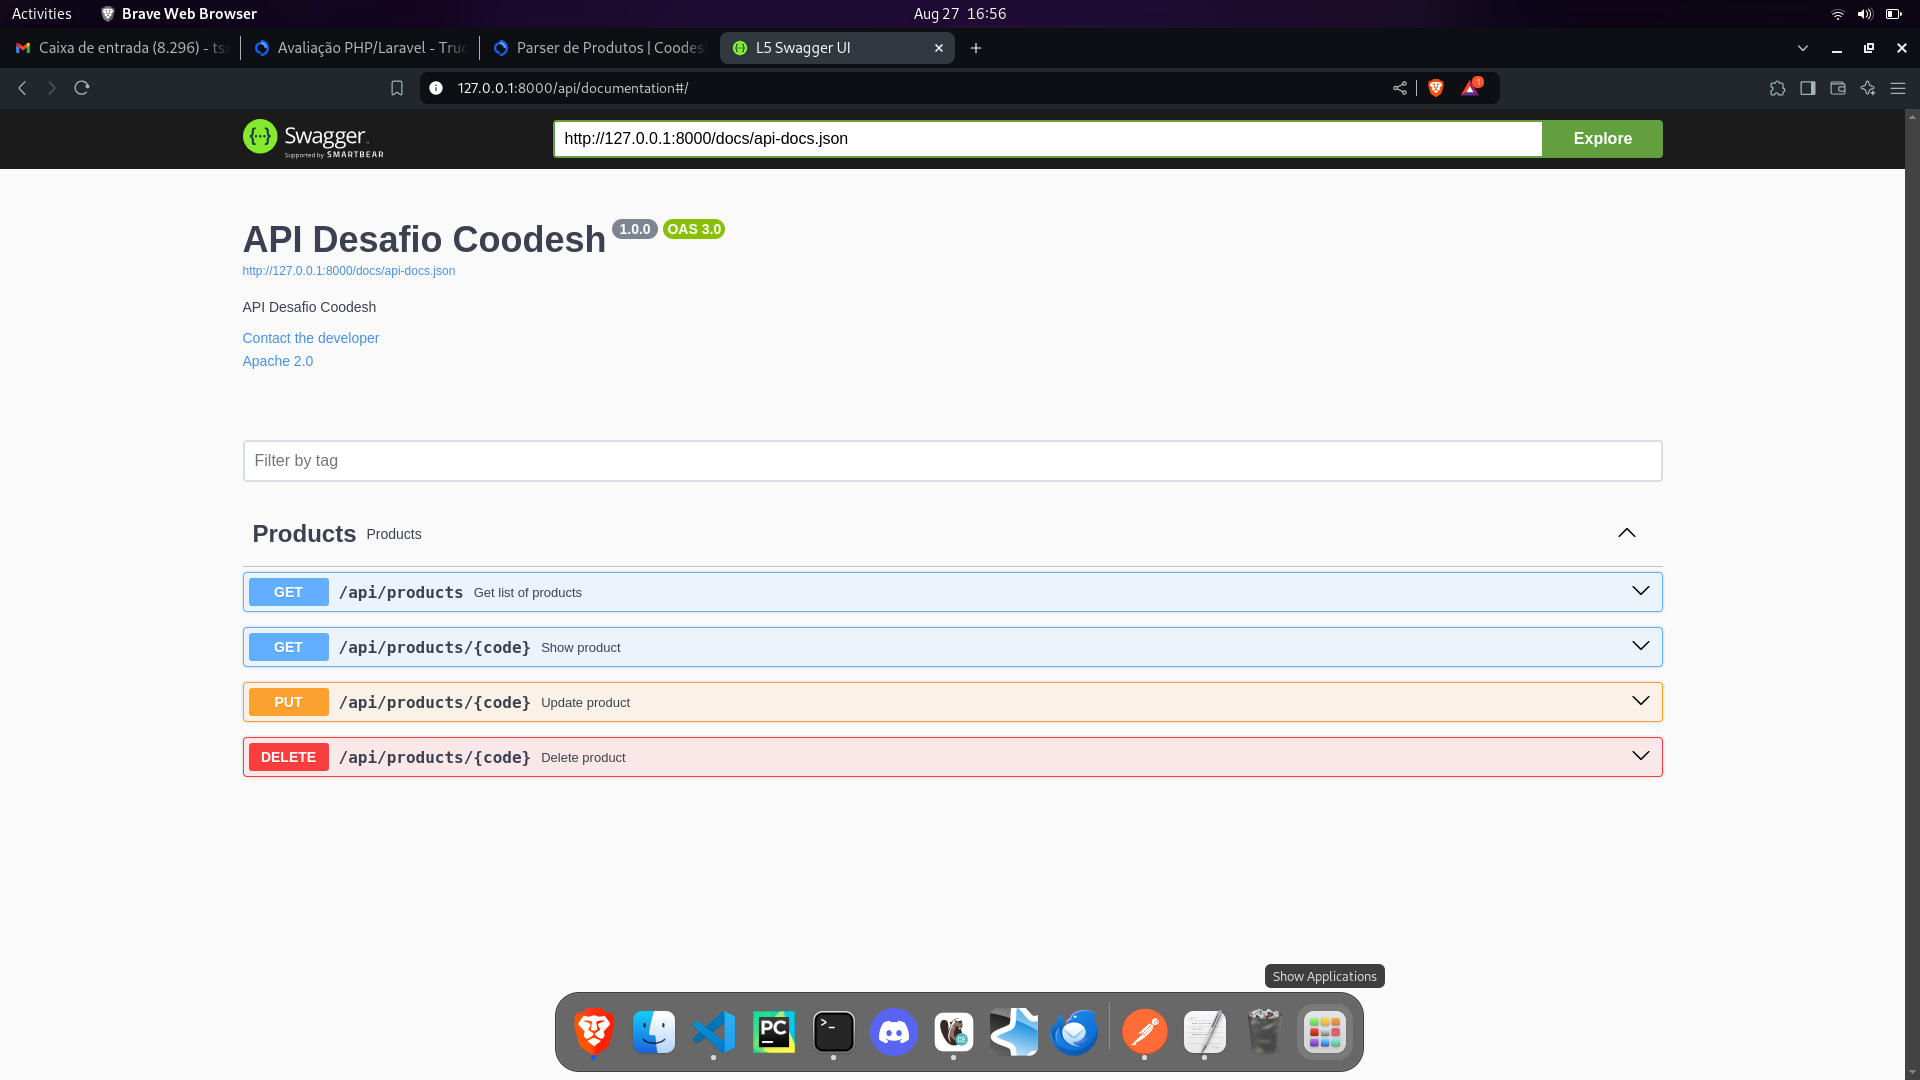
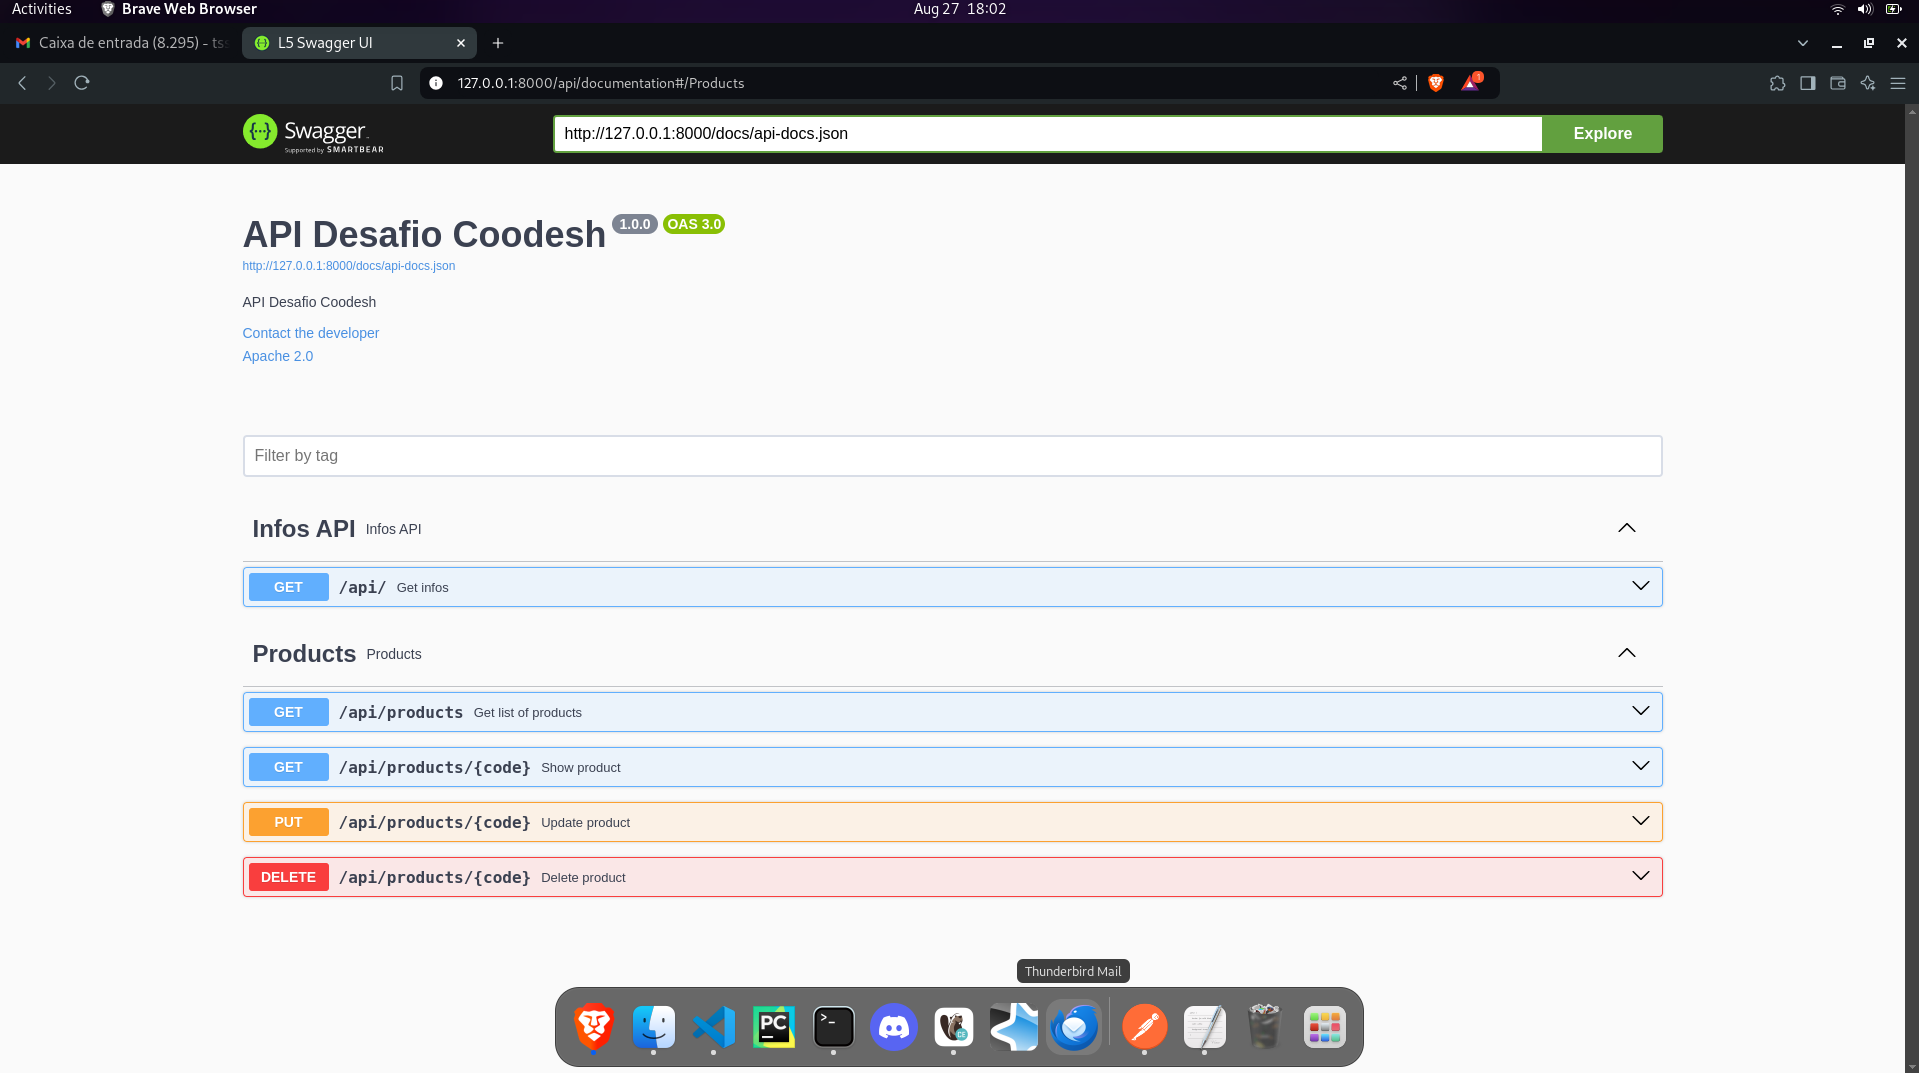
criando a tabela 'infos' e a rota que retorna informações da API

diff --git a/app/Http/Controllers/API/ReadProductsGz.php b/app/Http/Controllers/API/ReadProductsGz.php
@@ -16,14 +16,14 @@ class ReadProductsGz extends Controller
         $arr_json_products = 
         [
             'products_json_01' => 'https://challenges.coode.sh/food/data/json/products_01.json.gz',
-            'products_json_02' => "https://challenges.coode.sh/food/data/json/products_02.json.gz",
+            /*'products_json_02' => "https://challenges.coode.sh/food/data/json/products_02.json.gz",
             'products_json_03' => "https://challenges.coode.sh/food/data/json/products_03.json.gz",
             'products_json_04' => "https://challenges.coode.sh/food/data/json/products_04.json.gz",
             'products_json_05' => "https://challenges.coode.sh/food/data/json/products_05.json.gz",
             'products_json_06' => "https://challenges.coode.sh/food/data/json/products_06.json.gz",
             'products_json_07' => "https://challenges.coode.sh/food/data/json/products_07.json.gz",
             'products_json_08' => "https://challenges.coode.sh/food/data/json/products_08.json.gz",
-            'products_json_09' => "https://challenges.coode.sh/food/data/json/products_09.json.gz"
+            'products_json_09' => "https://challenges.coode.sh/food/data/json/products_09.json.gz"*/
         ];
 
 

diff --git a/app/Console/Commands/UpdateProductsCron.php b/app/Console/Commands/UpdateProductsCron.php
@@ -5,6 +5,7 @@ namespace App\Console\Commands;
 use App\Models\Products;
 use Illuminate\Console\Command;
 use App\Http\Controllers\API\ReadProductsGz;
+use App\Models\Infos;
 use Illuminate\Support\Facades\DB;
 
 class UpdateProductsCron extends Command
@@ -38,7 +39,7 @@ class UpdateProductsCron extends Command
         $all_products = app(ReadProductsGz::class)->GetFields();
         $products = Products::all();
 
-        for ($i = 0; $i < 900; $i++)
+        for ($i = 0; $i < 100; $i++)
         {     
             DB::table('foodfacts')
             ->where('id', $products[$i]->id)
@@ -78,7 +79,19 @@ class UpdateProductsCron extends Command
     public function handle()
     {
         $this->info('Rotina automática iniciada em ' . now());
+
+        $start = microtime(true); 
+
         $this->updateData();
+
+        $exec_time = (microtime(true) - $start);
+        $use_mem = round(memory_get_usage() / 1024) . 'KB';
+
+        $infos = new Infos();
+        $infos->exec_time = $exec_time;
+        $infos->use_mem = $use_mem;
+        $infos->save();
+
         $this->info('Rotina executada com sucesso em ' . now());
     }
 }

diff --git a/app/Http/Controllers/API/InfosController.php b/app/Http/Controllers/API/InfosController.php
@@ -1,0 +1,44 @@
+<?php
+
+namespace App\Http\Controllers\API;
+
+use App\Http\Controllers\Controller;
+use App\Models\Infos;
+use Illuminate\Http\Request;
+use Illuminate\Support\Facades\DB;
+
+class InfosController extends Controller
+{
+
+    /**
+     * @OA\Get(
+     *      path="/api",
+     *      operationId="getInfos",
+     *      tags={"Infos API"},
+     *      summary="Get infos",
+     *      description="Return infos API",
+     *      @OA\Response(
+     *          response=200,
+     *          description="Successful operation"
+     *       ),
+     *      @OA\Response(
+     *          response=403,
+     *          description="Forbidden"
+     *      )
+     *     )
+     */
+
+    public function getInfos(Infos $infos)
+    {
+        $infos = DB::table('infos')
+        ->latest()
+        ->first();
+
+        return response()->json(['success' => $infos]);
+
+
+    }
+
+
+
+}

diff --git a/routes/api.php b/routes/api.php
@@ -1,17 +1,12 @@
 <?php
 
+use App\Http\Controllers\API\InfosController;
 use App\Http\Controllers\API\ProductsController;
 use App\Http\Controllers\API\ReadProductsGz;
 
 
-Route::get('/', function () {
-    return response()->json(['success' => 'Bem-vindo(a) ao Coodesh Challanger.']);
-});
-
-
+Route::get('/', [InfosController::class, 'getInfos']);
 Route::get('/read-files', [ReadProductsGz::class, 'GetFields'])->name('read-files');
-
-Route::get('/', [ProductsController::class, 'index'])->name('check-validate');
 Route::get('/products/{code}', [ProductsController::class, 'show']);
 Route::get('/products', [ProductsController::class, 'getAllProducts']);
 Route::delete('/products/{code}', [ProductsController::class, 'destroy']);

diff --git a/database/migrations/2024_08_27_201758_create_infos_table.php b/database/migrations/2024_08_27_201758_create_infos_table.php
@@ -1,0 +1,31 @@
+<?php
+
+use Illuminate\Database\Migrations\Migration;
+use Illuminate\Database\Schema\Blueprint;
+use Illuminate\Support\Facades\Schema;
+
+return new class extends Migration
+{
+    /**
+     * Run the migrations.
+     */
+    public function up(): void
+    {
+        Schema::create('infos', function (Blueprint $table) {
+            $table->id();
+            $table->timestamps();
+            $table->string('use_mem');
+            $table->time('exec_time');
+        });
+    }
+
+    /**
+     * Reverse the migrations.
+     */
+    public function down(): void
+    {
+        Schema::dropIfExists('table_infos');
+    }
+
+
+};

diff --git a/app/Models/Infos.php b/app/Models/Infos.php
@@ -1,0 +1,17 @@
+<?php
+
+namespace App\Models;
+
+use Illuminate\Database\Eloquent\Factories\HasFactory;
+use Illuminate\Database\Eloquent\Model;
+use Illuminate\Support\Facades\DB;
+
+class Infos extends Model
+{
+    use HasFactory;
+    
+    protected $fillable = ['use_mem', 'exec_time'];
+
+   
+
+}

diff --git a/app/Console/Kernel.php b/app/Console/Kernel.php
@@ -12,7 +12,7 @@ class Kernel extends ConsoleKernel
      */
     protected function schedule(Schedule $schedule): void
     {
-        $schedule->command('updateProducts:cron')->everyTwoHours();
+        $schedule->command('updateProducts:cron')->everyMinute();
     }
 
     /**
